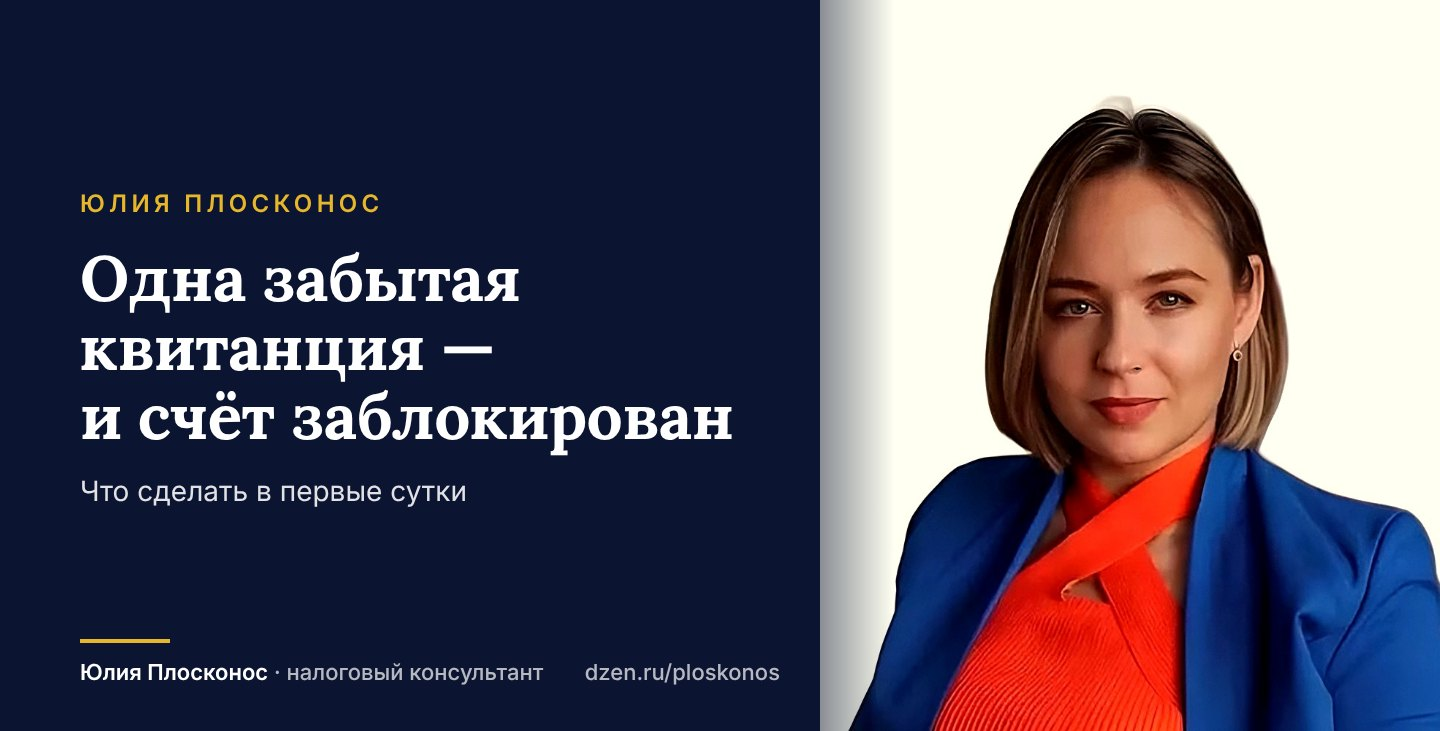
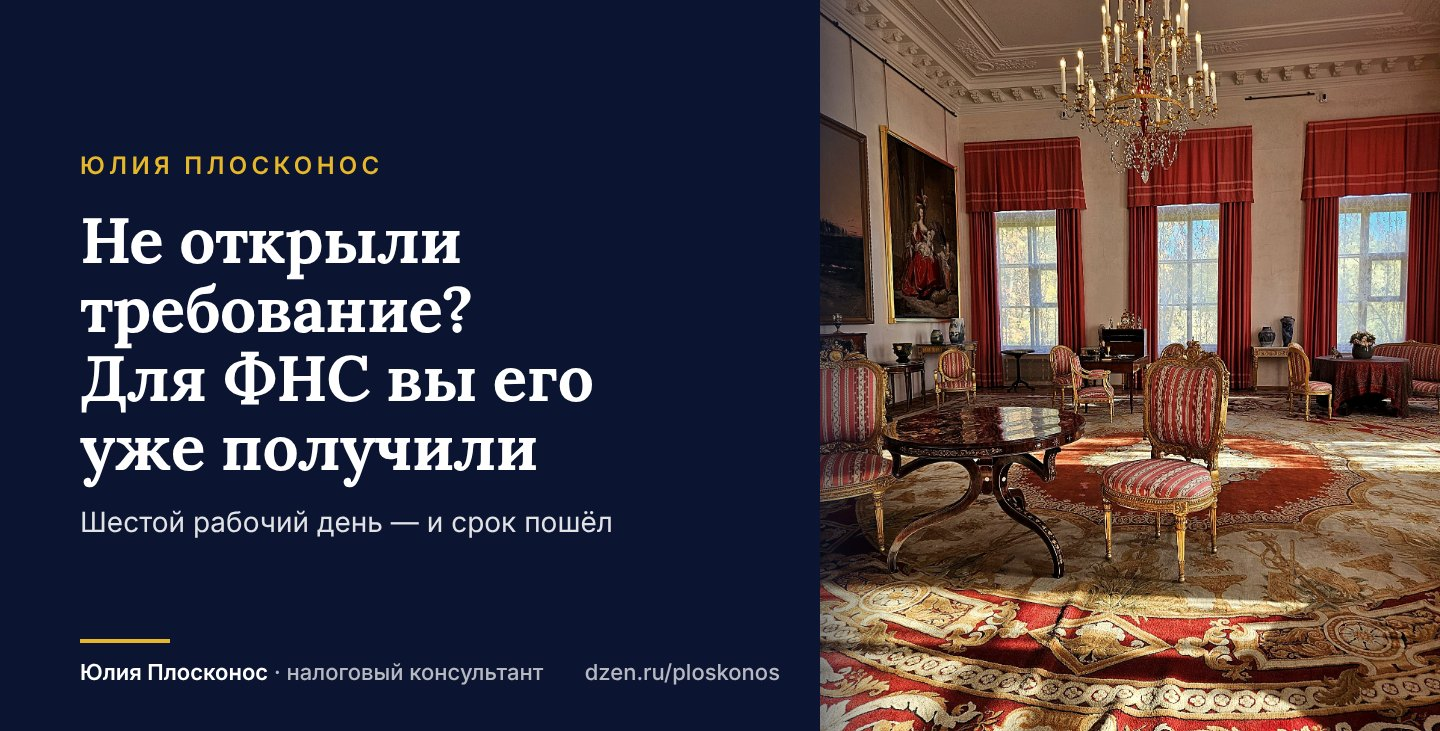
Dzen: новая обложка №16
Claude-Session: https://claude.ai/code/session_013Qm2mbBWBWRNQADMDb9gwE

diff --git a/content/dzen/FUNCTIONAL-LOG.md b/content/dzen/FUNCTIONAL-LOG.md
@@ -88,7 +88,8 @@
 |---|---|
 | 1 | Москва-Сити, идёт (walk) |
 | 2 | Москва-Сити, портрет (look) |
-| 3, 16, 22 | портрет в синем пиджаке (founder-hd) — уже повторено трижды, больше не брать до ~70-го поста |
+| 3, 22 (и 16 до правки) | портрет в синем пиджаке (founder-hd) — больше не брать до ~70-го поста |
+| 16 | dvorec-gostinaya |
 | 9 | sit |
 | 18 | yulia-pled-kafe |
 | 4 | dvorec-rotonda |
